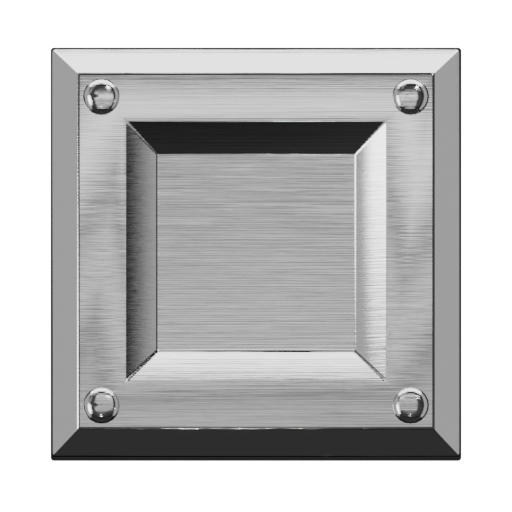
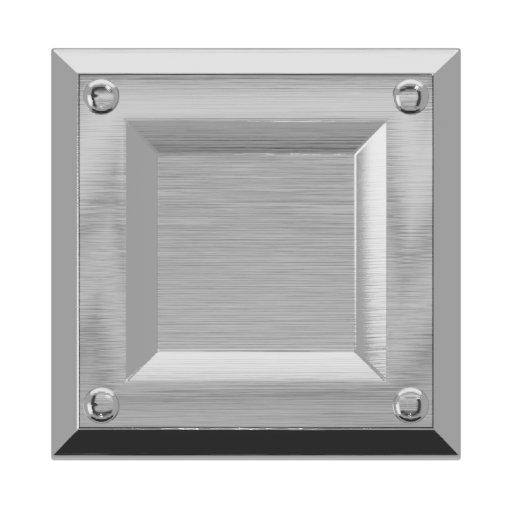
Split the locked plate world by ray type
A Light Path node picks between two copies of the background, so
reflections see the room at 0.85 while every other ray keeps the
dim 0.10. The two want opposite things - a room worth mirroring is
much brighter than a room that should be quietly filling shadows -
and one strength could only ever serve one of them.

Same trick build_lights already uses to give the gems a lit box to
refract without flooding the studio.

diff --git a/src/game/objects/itemSprites.ts b/src/game/objects/itemSprites.ts
@@ -138,7 +138,7 @@ export function itemSpriteKey(typeId: string, tier: number): string {
  * A version in the query string makes the URL new, so every client refetches
  * once and then caches again normally.
  */
-export const ITEM_ART_VERSION = 63;
+export const ITEM_ART_VERSION = 64;
 
 /** Where the renderer writes it, relative to `public/`. */
 export function itemSpritePath(typeId: string, tier: number): string {

diff --git a/tools/blender/render_items.py b/tools/blender/render_items.py
@@ -3662,6 +3662,11 @@ LOCK_LIGHT_SCALE = 0.30
 # A metal is nothing but its reflections, so this is not a background
 # setting - it is most of the plate's appearance.
 LOCK_HDRI_STRENGTH = 0.10
+# What the REFLECTIONS see the room at, as opposed to what everything
+# else does. Split apart because they want opposite things: a room
+# worth mirroring is far brighter than a room that should be quietly
+# filling shadows.
+LOCK_HDRI_GLOSSY = 0.85
 LOCK_ROUGHNESS = 0.05
 LOCK_METALLIC = 1.0
 # The softbox directly over the plate: its size in world units, how
@@ -4019,23 +4024,50 @@ def render_locked_plate():
     # the camera's own rotation, so the ceiling fixtures land in frame
     # rather than somewhere behind it.
     world = _board_environment()
-    for node in world.node_tree.nodes:
-        if node.type == 'BACKGROUND':
-            node.inputs["Strength"].default_value = LOCK_HDRI_STRENGTH
-        # THE ROOM DOES NOT GET SPUN WITH THE CAMERA.
-        #
-        # `_board_environment` turns the environment by the camera's
-        # whole rotation, which is right for the board - it reproduces
-        # what the viewport does. This camera carries an extra 180
-        # degrees about z, put there so the key lamp reads from the
-        # top of the frame, and that took the room round with it: the
-        # HDRI's bright side landed at the BOTTOM, and it beat the
-        # lamp. Measured, the plate's top chamfer came back #797978
-        # against #8b8c8b at the bottom - lit from below, while every
-        # item standing on the board is lit from above.
+    nodes, links = world.node_tree.nodes, world.node_tree.links
+    background = next(n for n in nodes if n.type == 'BACKGROUND')
+    background.inputs["Strength"].default_value = LOCK_HDRI_STRENGTH
+    # THE ROOM, TURNED UP FOR REFLECTIONS ONLY.
+    #
+    # A metal shows the room and nothing else, so the room wants to
+    # be bright - but the same setting also feeds every other ray,
+    # and turning it up flooded the piece and flattened it. They are
+    # separable: a Light Path node knows which kind of ray is asking.
+    #
+    # So there are two copies of the background, and `Is Glossy Ray`
+    # picks between them. Reflections get the room at LOCK_HDRI_GLOSSY
+    # and everything else keeps the dim one. The same trick
+    # `build_lights` already uses to give the gems a lit box to
+    # refract without flooding the studio.
+    mirror = nodes.new("ShaderNodeBackground")
+    mirror.inputs["Color"].default_value = background.inputs["Color"].default_value
+    for link in list(links):
+        if link.to_node is background and link.to_socket.name == "Color":
+            links.new(link.from_socket, mirror.inputs["Color"])
+    mirror.inputs["Strength"].default_value = LOCK_HDRI_GLOSSY
+    path = nodes.new("ShaderNodeLightPath")
+    mix = nodes.new("ShaderNodeMixShader")
+    links.new(path.outputs["Is Glossy Ray"], mix.inputs["Fac"])
+    links.new(background.outputs["Background"], mix.inputs[1])
+    links.new(mirror.outputs["Background"], mix.inputs[2])
+    output = next(n for n in nodes if n.type == 'OUTPUT_WORLD')
+    links.new(mix.outputs["Shader"], output.inputs["Surface"])
+
+    # THE ROOM DOES NOT GET SPUN WITH THE CAMERA.
+    #
+    # `_board_environment` turns the environment by the camera's whole
+    # rotation, which is right for the board - it reproduces what the
+    # viewport does. This camera carries an extra 180 degrees about z,
+    # put there so the key lamp reads from the top of the frame, and
+    # that took the room round with it: the HDRI's bright side landed
+    # at the BOTTOM and it beat the lamp. Measured, the plate's top
+    # chamfer came back #797978 against #8b8c8b at the bottom - lit
+    # from below, while every item on the board is lit from above.
+    for node in nodes:
         if node.type == 'MAPPING':
             node.inputs["Rotation"].default_value = (
                 math.radians(BOARD_TILT_DEG), 0.0, 0.0)
+
     configure_render()
     sc = bpy.context.scene
     sc.render.resolution_x = sc.render.resolution_y = LOCK_PX
